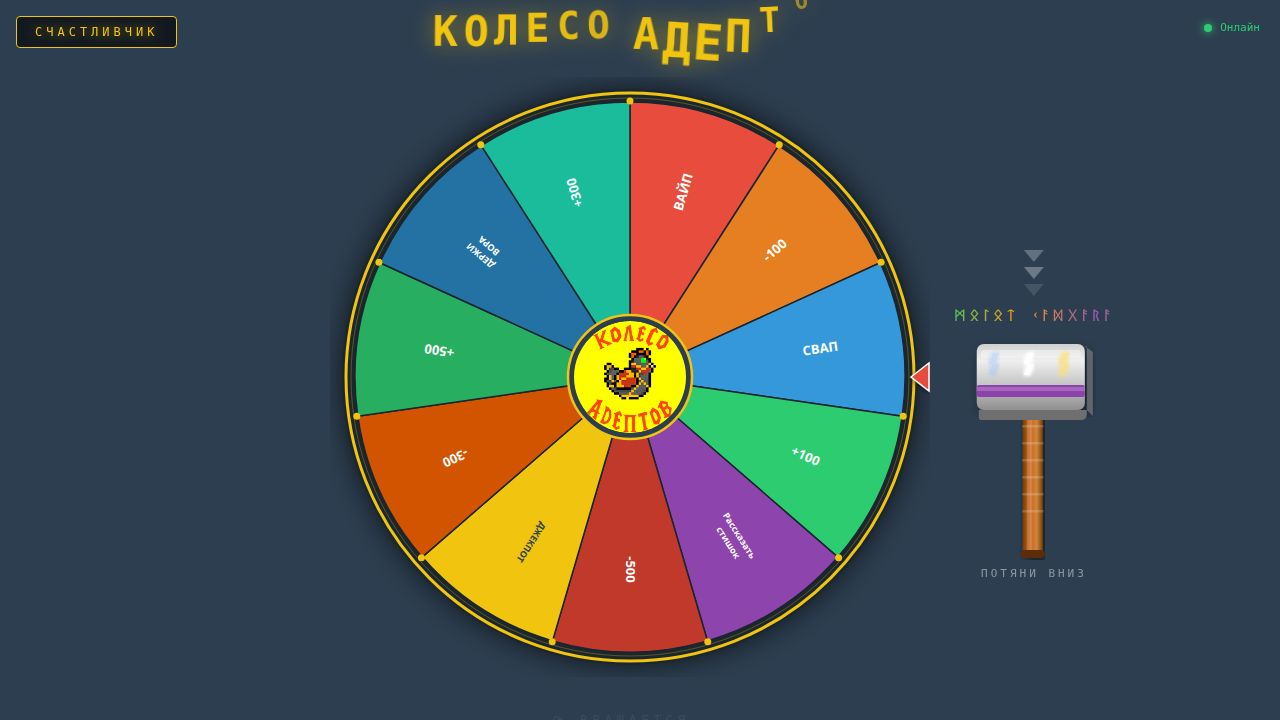
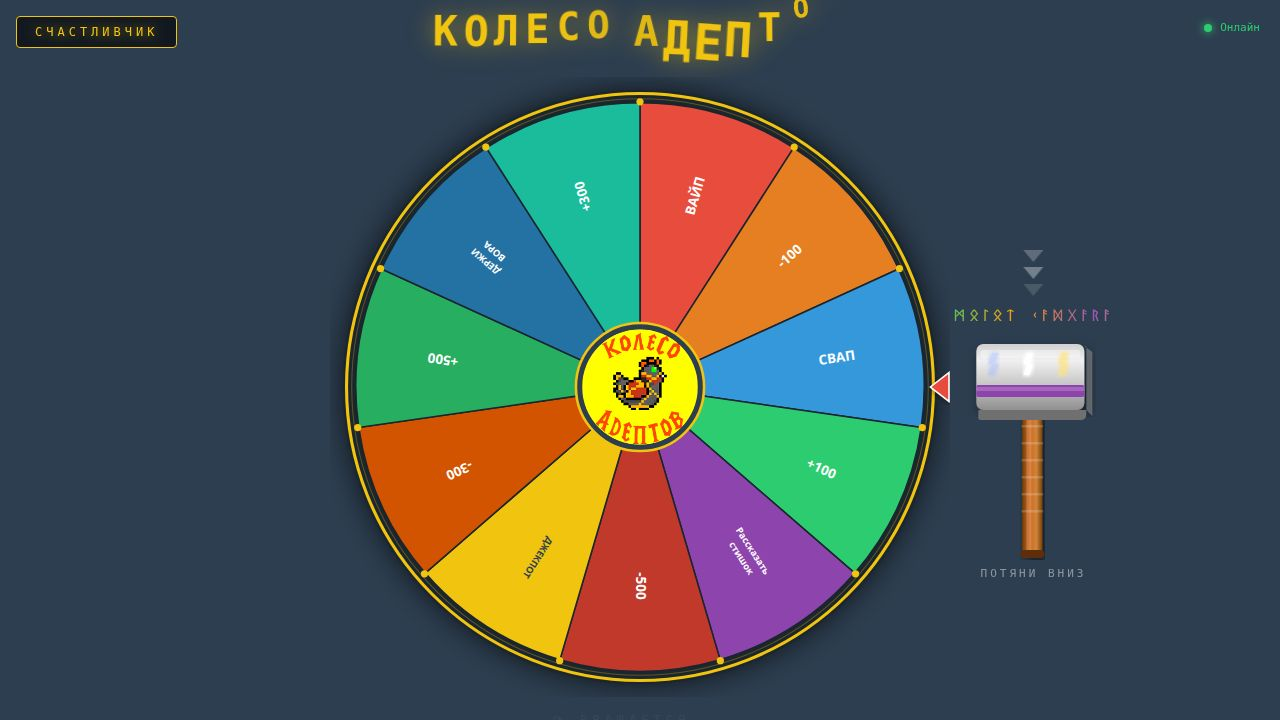
Enforce correct game sequence by requiring spin before shooting
Update button logic in GamePage.tsx to ensure players spin the wheel before they can shoot, addressing a logic flaw where shooting was possible without spinning.

Replit-Commit-Author: Agent
Replit-Commit-Session-Id: ce8f0b06-b864-4432-bc11-16c737674baa
Replit-Commit-Checkpoint-Type: full_checkpoint
Replit-Commit-Event-Id: ee6130a5-f9dc-415a-a813-9861d9a2063f
Replit-Commit-Screenshot-Url: https://storage.googleapis.com/screenshot-production-us-central1/97973223-cb64-4bd4-a3e8-d9babc11006d/ce8f0b06-b864-4432-bc11-16c737674baa/hFaxVU0
Replit-Helium-Checkpoint-Created: true

diff --git a/artifacts/roulette-game/src/pages/GamePage.tsx b/artifacts/roulette-game/src/pages/GamePage.tsx
@@ -404,10 +404,10 @@ export function GamePage() {
 
         {/* Controls */}
         <div className="flex gap-5">
-          <PandoraButton onClick={spin} disabled={!isMyTurn || isSpinning || gameOver} data-testid="button-spin">
+          <PandoraButton onClick={spin} disabled={!isMyTurn || isSpinning || hasSpun || gameOver} data-testid="button-spin">
             Крутить
           </PandoraButton>
-          <PandoraButton onClick={shoot} disabled={!isMyTurn || isSpinning || gameOver} data-testid="button-shoot">
+          <PandoraButton onClick={shoot} disabled={!isMyTurn || isSpinning || !hasSpun || gameOver} data-testid="button-shoot">
             Испытать судьбу
           </PandoraButton>
         </div>
